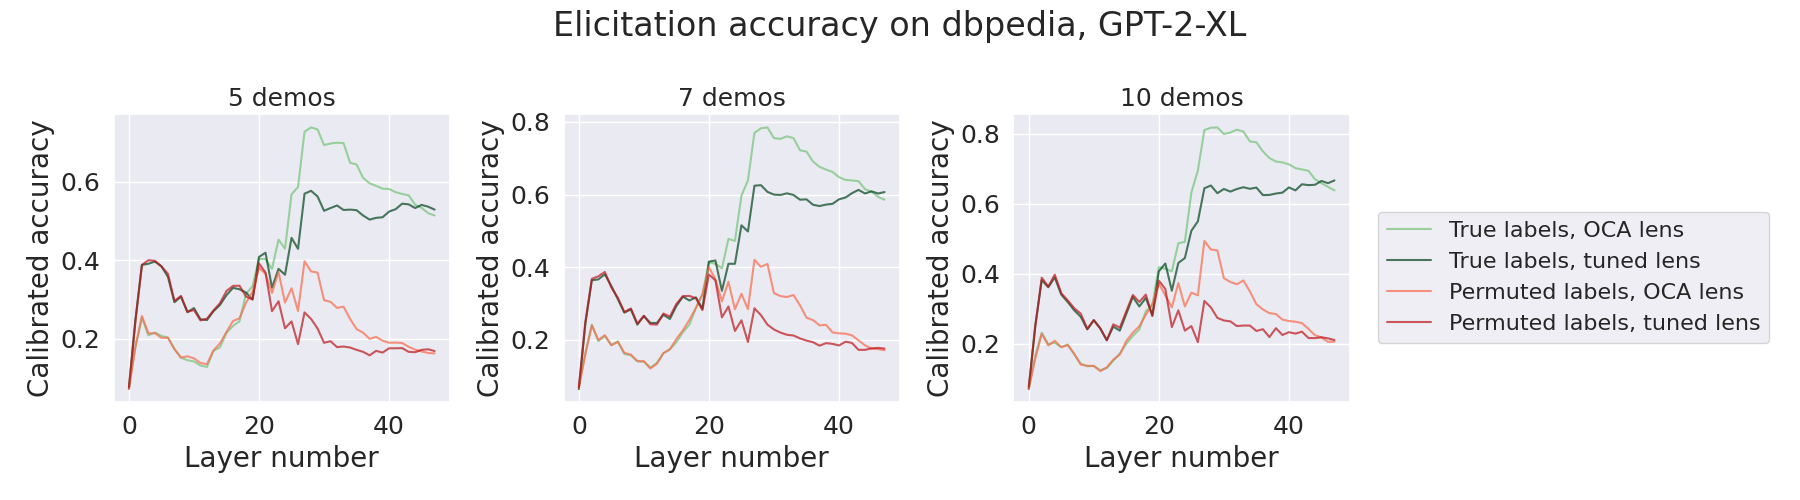
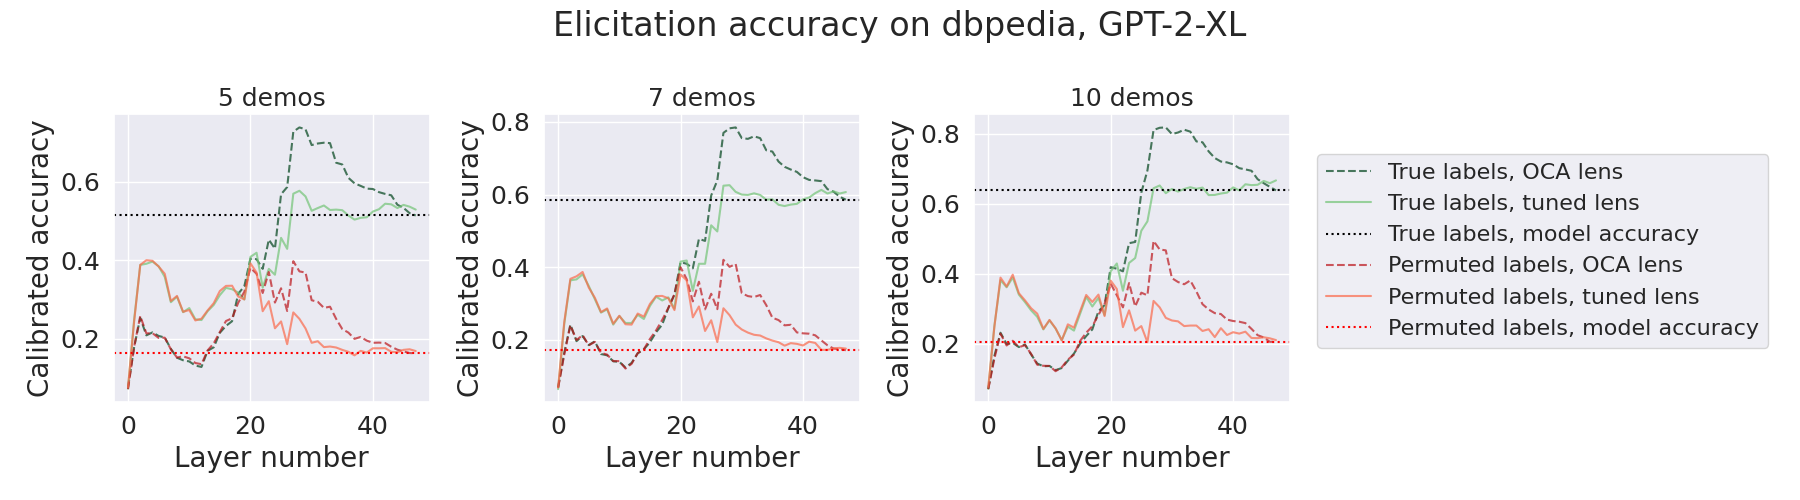
datasets

diff --git a/lens_truthfulness.py b/lens_truthfulness.py
@@ -203,14 +203,15 @@ def plot_figure(data, dataset_name, demos, string_labels=False):
                     label=f"{label_mode}, {lens_captions[lens_name]} lens",
                     ax=axes[ax_idx],
                     color=lineshades[label_mode][j],
-                    linestyle="solid",
+                    linestyle="solid" if lens_name == "tuned" else "dashed",
                     alpha=0.7
                 )
+            axes[ax_idx].axhline(y=data[n_demos][label_mode]['modal'][-1], color="black" if label_mode == "True labels" else "red", linestyle="dotted", label=f"{label_mode}, model accuracy")
         axes[ax_idx].set(ylabel="Calibrated accuracy", xlabel="Layer number")
         axes[ax_idx].set_title(n_demos if string_labels else f"{n_demos} demos")
         axes[ax_idx].get_legend().remove()
     
-    axes[-1].legend(bbox_to_anchor=(1.05, 0.7))
+    axes[-1].legend(bbox_to_anchor=(1.05, 0.9))
 
     plt.suptitle(f"Elicitation accuracy on {dataset_name.replace('_', ' ')}, GPT-2-XL")
     plt.tight_layout()
@@ -283,7 +284,7 @@ for n_demos in demo_plot:
             x=comparative_stats_plot[n_demos][label_mode]['tuned'], 
             y=comparative_stats_plot[n_demos][label_mode]['modal'],
             # label=label_mode,
-            color=lineshades[label_mode][-1],
+            color=lineshades[label_mode][0],
         )
 
         data_series = list(zip(
@@ -412,6 +413,9 @@ for ax_idx, dataset_name in enumerate(agg_data):
                 linestyle="solid" if lens_name == "tuned" else "dashed",
                 alpha=0.7
             )
+        baseline = agg_data[dataset_name][n_demos][label_mode]["modal"][-1]
+        plt.gca().axhline(y=baseline, color="black" if label_mode == "True labels" else "red", linestyle="dotted")
+
     # plt.gca().set(ylabel="Accuracy", xlabel="Layer number")
     plt.gca().set_title(dataset_name.replace("_", " ").replace(" pairs", "").replace(" stance", ""))
     plt.gca().get_legend().remove()
